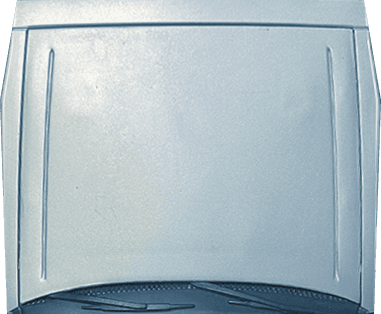
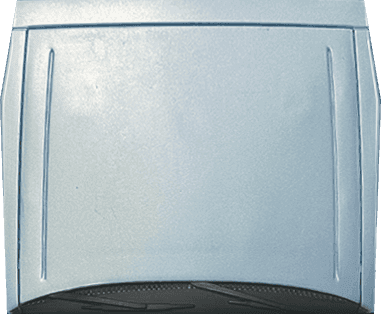
windshield and roof... adjusted windows to make the profile a little less sports-car-severe, now shit begins to get hairy, as in, lots more shapes, littler shapes, more complex shapes...

Changed region(s): [[0.0289, 0.8885, 0.9816, 1.0], [0.9816, 0.5159, 1.0, 0.5446]]

diff --git a/src/scss/future.scss b/src/scss/future.scss
@@ -295,13 +295,20 @@ div#future {
     }
 
     div#windshield {
-      background: white;
-      opacity: 0.64;
-      width: 275.5px; // 367px;
-      left: 73.5px; // 28px;
-      height: 158px;
+      background-image: url(../img/future/windshield.png);
+      width: 364px;
+      left: 29.5px;
+      height: 165px;
       top: 333px;
-      transform: translateZ(-155px) rotateX(-15.42deg);
+      transform: translateZ(-155px) rotateX(-23.5deg);
+    }
+    div#roof {
+      background-image: url(../img/future/roof.png);
+      width: 242px;
+      height: 195px;
+      left: 90px;
+      top: 484px;
+      transform: translateZ(-220.5px);
     }
 
     div.bcLower {
@@ -328,20 +335,21 @@ div#future {
     div.bcUpper,
     div.sw {
       background-image: url(../img/future/bodyCenterUpper.png);
-      width: 68px;
+      width: 100px;
       height: 359px;
       top: 331px;
       left: 30px;
-      transform: translateZ(-155px) rotateY(44.5deg);
+      transform: translateZ(-155px) rotateY(47.5deg);
       &#bodyCenterUpperLeft,
       &#sideWindowLeft {
         left: calc(100% - 30px);
-        transform: translateZ(-155px) rotateY(137deg);
+        transform: translateZ(-155px) rotateY(132.5deg);
       }
     }
     div.sw {
       background-image: url(../img/future/sideWindow.png);
       left: 30.5px;
+      opacity: 0.76;
       &#sideWindowLeft {
         left: calc(100% - 30.5px);
       }
@@ -508,13 +516,19 @@ div#future {
           top: 848px;
         }
       }
-      &#wheelWellsTop {
+      &.ww {
         background-color: black;
         width: 393px;
-        height: 729px;
-        top: 119px;
         left: 15px;
         transform: translateZ(-127px);
+        &#wheelWellsAxleFront {
+          height: 150px;
+          top: 119px;
+        }
+        &#wheelWellsAxleBack {
+          height: 157px;
+          top: 691px;
+        }
       }
     }
   }

diff --git a/src/html/future.html b/src/html/future.html
@@ -37,7 +37,8 @@
     <div id="ucCrossFrontAxleBack" class="uc ucEW"></div>
     <div id="ucCrossRearAxleFront" class="uc ucEW"></div>
     <div id="ucCrossRearAxleBack" class="uc ucEW"></div>
-    <div id="wheelWellsTop" class="uc"></div>
+    <div id="wheelWellsAxleFront" class="uc ww"></div>
+    <div id="wheelWellsAxleBack" class="uc ww"></div>
     <div id="bumperFrontLower" class="bumperFront"></div>
     <div id="bumperFrontMiddle" class="bumperFront"></div>
     <div id="bumperFrontUpper" class="bumperFront"></div>
